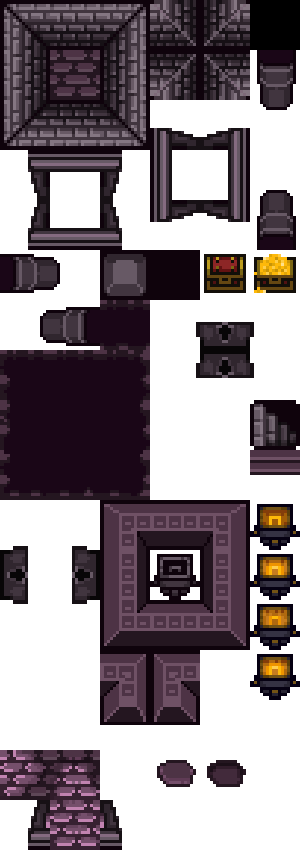
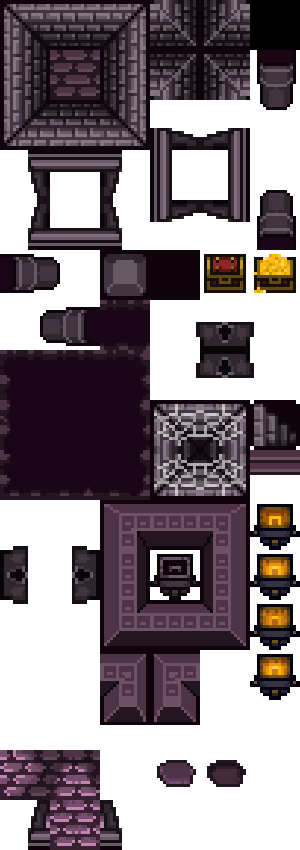
put spider nets in random corners

Changed region(s): [[0.48, 0.4588, 0.84, 0.6118]]

diff --git a/src/dungeon-scene.js b/src/dungeon-scene.js
@@ -16,7 +16,7 @@ import themeMp3 from "./assets/audio/kai-engel-downfall.mp3"
 export default class DungeonScene extends Phaser.Scene {
   constructor() {
     super();
-    this.level = 1;
+    this.level = 10;
     this.minLevel = 1;
     this.narrator = new Narrator()
     this.ambientMusik
@@ -93,10 +93,10 @@ export default class DungeonScene extends Phaser.Scene {
       this.groundLayer.fill(TILES.FLOOR, left + 1, top + 1, width - 2, height - 2);
 
       // Place the room corners tiles
-      this.groundLayer.putTileAt(TILES.WALL.TOP_LEFT, left, top);
-      this.groundLayer.putTileAt(TILES.WALL.TOP_RIGHT, right, top);
-      this.groundLayer.putTileAt(TILES.WALL.BOTTOM_RIGHT, right, bottom);
-      this.groundLayer.putTileAt(TILES.WALL.BOTTOM_LEFT, left, bottom);
+      this.groundLayer.weightedRandomize(left, top, 1, 1, TILES.WALL.TOP_LEFT);
+      this.groundLayer.weightedRandomize(right, top, 1, 1, TILES.WALL.TOP_RIGHT);
+      this.groundLayer.weightedRandomize(right, bottom, 1, 1, TILES.WALL.BOTTOM_RIGHT);
+      this.groundLayer.weightedRandomize(left, bottom, 1, 1, TILES.WALL.BOTTOM_LEFT);
 
       // Fill the walls
       this.groundLayer.fill(TILES.WALL.TOP, left + 1, top, width - 2, 1);

diff --git a/src/tile-mapping.js b/src/tile-mapping.js
@@ -5,10 +5,10 @@
 export default {
   BLANK: 5,
   WALL: {
-    TOP_LEFT: 0,
-    TOP_RIGHT: 2,
-    BOTTOM_RIGHT: 14,
-    BOTTOM_LEFT: 12,
+    TOP_LEFT: [{index: 0, weight: 5}, {index: 51, weight: 1}],
+    TOP_RIGHT: [{index: 2, weight: 5}, {index: 52, weight: 1}],
+    BOTTOM_RIGHT: [{index: 14, weight: 5}, {index: 58, weight: 1}],
+    BOTTOM_LEFT: [{index: 12, weight: 5}, {index: 57, weight: 1}],
     TOP: 1,
     LEFT: 6,
     RIGHT: 8,
